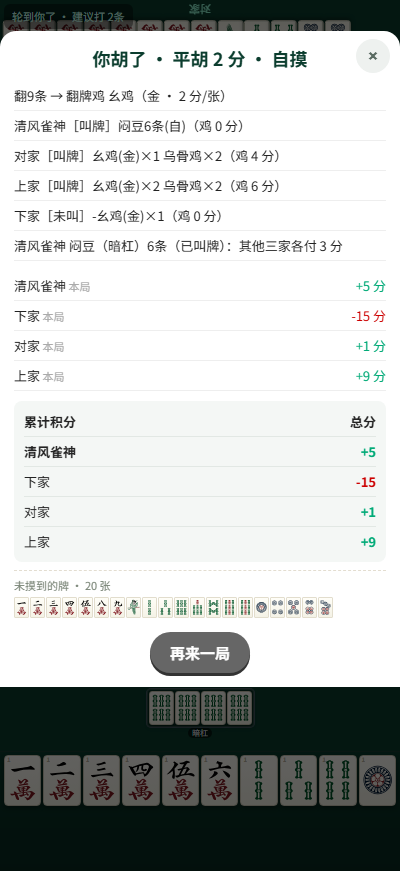
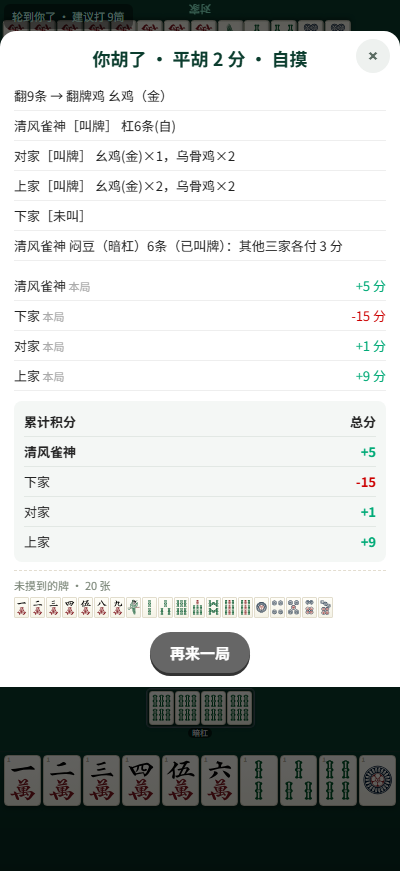
结算窗再简一轮：第2行不写分值、四家行只列「杠+鸡」（三种豆统一写「杠」）、未叫家只到［未叫］

Changed region(s): [[0.24, 0.093, 0.69, 0.279], [0.27, 0.0, 0.3, 0.031]]

diff --git a/index.html b/index.html
@@ -2601,43 +2601,40 @@ function chickenSurvey(p){
     .map(c=>({c:c,v:chickenValue(c,fc),keep:keep[c]||0,disc:disc[c]||0}));
   return {p:p,rows:rows};
 }
-/* 一行里某个牌种怎么称呼（用户 2026-09-16：`幺鸡(金)×2` 这个写法认同）：
+/* 一行里某个牌种怎么称呼（用户 2026-09-16 定稿）：
      · 幺鸡 / 乌骨鸡         → 「幺鸡」「乌骨鸡」
      · 其中本局是金鸡的那一个  → 「幺鸡(金)」
-     · 翻牌鸡（不是幺鸡/8筒）  → 「6万(翻牌鸡)」—— 翻牌鸡每局都换，不写牌名看不出是哪一张 */
+     · 翻牌鸡（不是幺鸡/8筒）  → **直接写牌名**（「5筒」）—— 第 2 行已经说了翻牌鸡是哪张，
+       这里再挂一个「(翻牌鸡)」只是重复；翻牌鸡每局都换，光看牌名+第 2 行就能对上。 */
 function chickenRowLabel(c,fc){
   if(c===YAOJI)  return fc===YAOJI?'幺鸡(金)':'幺鸡';
   if(c===WUGUJI) return fc===WUGUJI?'乌骨鸡(金)':'乌骨鸡';
-  return cname(c)+'(翻牌鸡)';
+  return cname(c);
 }
-// 一家的明细文字："幺鸡×2 乌骨鸡×1 ｜ 打 6万(翻牌鸡)×1"
-//   用户 2026-09-16：**去掉「留」这个字**（叫牌家留着的和打出的都算他的，标「留」反而让人以为"留在手里才算"）；
-//   只给**打出去的**保留一个「打」标记 —— 未叫家打出去的才进包鸡，这个区别要看得出来。
-//   neg=true（未叫家）：每一项前面加「-」—— 标记"这些都不算他的分"（用户 2026-09-16）。
-function chickenCells(s, neg){
+// 一家的鸡："幺鸡×2，5筒×1"（用户 2026-09-16：**只要类型与数量**）
+//   · 不再分「留 / 打」两段 —— 叫牌家留着的和打出的都算他的，本来就是一个总数。
+//   · 未叫家**不显示**（他的鸡一律不算分，写出来只是占地方），所以本函数不给 neg 参数。
+function chickenCells(s){
   const fc=G.chickenCard;
-  const pre=neg?'-':'';
-  const f=(k)=>s.rows.filter(r=>r[k]).map(r=>pre+chickenRowLabel(r.c,fc)+'×'+r[k]).join(' ');
+  const m=new Map();                       // 保序：rows 已按牌号排好 → 输出顺序稳定
+  s.rows.forEach(r=>{const n=(r.keep||0)+(r.disc||0); if(n)m.set(r.c,(m.get(r.c)||0)+n);});
   const parts=[];
-  if(f('keep'))parts.push(f('keep'));
-  if(f('disc'))parts.push('打 '+f('disc'));
-  return parts.join(' ｜ ')||'无鸡';
+  m.forEach((n,c)=>parts.push(chickenRowLabel(c,fc)+'×'+n));
+  return parts.join('，');
 }
-/* 一家的杠（豆腐）文字："闷豆6条(自) 点豆5万(上)"
-   用户 2026-09-16：杠要写清**谁放的** —— 自 / 对 / 上 / 下
-     · 闷豆（暗杠）、爬坡豆（补杠）都是自己成的 → (自)
-     · 点豆（明杠）= 别人放的第 4 张 → 写放那张牌的人
-   neg=true（未叫家）：加「-」前缀（未叫家的杠是倒赔）。
+/* 一家的杠文字："杠9万(自)"（用户 2026-09-16：闷豆/爬坡豆/点豆**统一写成「杠」**）
+   杠要写清**谁放的** —— 自 / 对 / 上 / 下（点豆写放那张牌的人，自杠写「自」）。
    ⚠ 分类顺序不能反：补杠的 meld 继承了原来那副碰的 from(>=0)，
-      先判 from 会把它误算成点豆（douSettle 里踩过同一个坑，见那里的注释）。 */
+      先判 from 会把它误算成点豆（douSettle 里踩过同一个坑，见那里的注释）。
+   ⚠ 三种豆分值完全一样（各 3 分），区别只在"谁付"，而"谁付"由括号里的座位说清了，
+      所以行里不必再分种类；豆的收付由下面的「豆：」行单独讲。 */
 const SEAT_ABBR=['自','下','对','上'];      // 座位号 → 简称（0＝自己 / 1＝下家 / 2＝对家 / 3＝上家）
-function douCells(p, neg){
+function douCells(p){
   const gs=(G.melds[p]||[]).filter(m=>m.type==='gang'&&!m.void);
   return gs.map(m=>{
     const isPoint=(!m.paPo&&m.from>=0);
-    const kind=m.paPo?'爬坡豆':(isPoint?'点豆':'闷豆');
-    return (neg?'-':'')+kind+cname(m.card)+'('+(isPoint?(SEAT_ABBR[m.from]||'他'):'自')+')';
-  }).join(' ');
+    return '杠'+cname(m.card)+'('+(isPoint?(SEAT_ABBR[m.from]||'他'):'自')+')';
+  }).join('，');
 }
 // 一家的全部鸡的**张数**与分值（含宽窄口径之外的自有部分，供显示 ）
 function chickenOwnPts(s){return s.rows.reduce((a,r)=>a+(r.keep+r.disc)*r.v,0);}
@@ -2662,11 +2659,13 @@ function chickenSettle(win, lines, total, burn, tail){
   // 本局有没有金鸡（非 null = 有）：金鸡就是"本局的鸡正好是 幺鸡 / 乌骨鸡 之一"那种情况。
   // 名字只当**判据**用，真正显示的字一律走 chickenName()（免得两处叫法各写一套、改一个漏一个）。
   const goldName=(fc===YAOJI||fc===WUGUJI)?chickenName(fc):null;
-  /* 第 2 行（用户 2026-09-16 定的六行结构）：翻到什么 → 翻牌鸡是哪张、几分/张。
-     ⚠ G.chickenCard 存的是**翻到的牌的下一张**（= 翻牌鸡），翻到的牌本身是 G.flipCard。 */
+  /* 第 2 行（用户 2026-09-16 定的六行结构）：翻到什么 → 翻牌鸡是哪张。
+     ⚠ G.chickenCard 存的是**翻到的牌的下一张**（= 翻牌鸡），翻到的牌本身是 G.flipCard。
+     ⚠ 用户 2026-09-16：**不再写「（1 分/张）」** —— 分值表在 README / 帮助里，结算窗只报"是哪张"；
+        只有**金**要留一个标记（那会改分值，不提就是漏信息）。 */
   const flipTxt=(G.flipCard===null||G.flipCard===undefined)
-    ?'牌墙已空，不翻牌 · 幺鸡 / 乌骨鸡 各 1 分/张'
-    :`翻${cname(G.flipCard)} → 翻牌鸡 ${chickenName(fc)}（${goldName?'金 · 2 分/张':'1 分/张'}）`;
+    ?'牌墙已空，不翻牌'
+    :`翻${cname(G.flipCard)} → 翻牌鸡 ${chickenName(fc)}${goldName?'（金）':''}`;
   // ⚠ 第 3~6 行要用到下面算出来的 ownC/thrownC，所以四家行**挪到收付算完之后**再 push。
 
   // ③ 常鸡（幺鸡 / 8筒）的收付 —— 用户 2026-09-16 定稿（**与旧口径不同**，规则见文件头 §四）：
@@ -2711,22 +2710,19 @@ function chickenSettle(win, lines, total, burn, tail){
   }
   /* ---- 第 2 行 + 第 3~6 行（用户 2026-09-16 定的结构）----
      顺序：**自己 → 对家 → 上家 → 下家**（用户指定，不是出牌顺序）。
-     每行 = 名字［叫牌/未叫］+ 他的杠（写清谁放的）+ 他的鸡（金 / 翻牌鸡 都挂在牌种上）+（他的鸡值几分）
-            + 未叫家打出的鸡 → 包鸡（写在**打出那张鸡的那一家自己**这一行里）。
+     每行 = 名字［叫牌/未叫］+ 他的杠 + 他的鸡（金 / 翻牌鸡 都挂在牌种上），项之间用「，」分隔。
+     · **未叫家一行只写到［未叫］** —— 他的杠、他的鸡全部不算他的分，列出来只是占地方（用户 2026-09-16）。
+     · **只有叫牌家**（收得到分的那种）才列；他打出去的鸡进了包鸡 → 在该行尾巴补一句
+       `→ 包鸡 各 N 分`（写在**打出那张鸡的那一家自己**这一行里）。
      "钱怎么走"不再单独占一行，方向由侧栏（rSide）的本局净额体现。 */
   lines.push(flipTxt);
   [0,2,3,1].forEach(p=>{
-    const s=sur[p];
-    const own=(called[p]&&!isBurned(p))?chickenOwnPts(s):0;   // 未叫家收不到 → 0 分
-    const neg=!called[p];                                     // 未叫家：每一项前面加「-」（都不算他的分）
     const seg=[];
-    const dou=douCells(p,neg);
-    if(dou)seg.push(dou);
-    const chk=chickenCells(s,neg);
-    if(chk!=='无鸡')seg.push(chk);
-    // 括号里写的是"**他的鸡值几分**"—— 杠的收付由下面的豆结算行说，
-    // 所以这里必须点明是"鸡"，否则像 `闷豆6条(自)（0分）` 会被读成"这个杠 0 分"。
-    let txt=`${NAMES[p]}［${called[p]?'叫牌':'未叫'}］${seg.length?seg.join(' '):'无'}（鸡 ${own} 分）`;
+    if(called[p]){                                   // 未叫家：后面一律不写
+      const dou=douCells(p);            if(dou)seg.push(dou);
+      const chk=chickenCells(sur[p]);   if(chk)seg.push(chk);
+    }
+    let txt=`${NAMES[p]}［${called[p]?'叫牌':'未叫'}］${seg.length?' '+seg.join('，'):''}`;
     if(thrownC[p])txt+=` → 包鸡 各 ${thrownC[p]} 分`;
     if(isBurned(p))txt+=' · 鸡全烧（热炮）';
     lines.push(txt);

diff --git a/README.md b/README.md
@@ -337,21 +337,22 @@
 结算窗**前六行**格式固定，顺序是：**谁胡了 → 翻牌 → 自己 → 对家 → 上家 → 下家**。
 
 ```
-你胡了 · 平胡 1 分 · 对家点炮                  第 1 行：谁胡了 · 牌型几分 · 谁点炮（自摸就写「自摸」）
-翻5万 → 翻牌鸡 6万（1 分/张）                  第 2 行：翻到什么 → 翻牌鸡是哪张、几分/张
-清风雀神［叫牌］闷豆6条(自)（鸡 0 分）         第 3~6 行：自己 → 对家 → 上家 → 下家
-对家［叫牌］幺鸡×1 乌骨鸡×1（鸡 2 分）
-上家［叫牌］幺鸡×2 乌骨鸡×2（鸡 4 分）
-下家［未叫］打 幺鸡×1（鸡 0 分） → 包鸡 各 1 分
-豆：闷豆6条(自) 三家各付 3 分                  再往下：豆 · 冲锋鸡 · 责任鸡 · 未摸到的牌 · 本局 / 累计
+你胡了 · 平胡 1 分 · 对家点炮        第 1 行：谁胡了 · 牌型几分 · 谁点炮（自摸就写「自摸」）
+翻4筒 → 翻牌鸡 5筒                   第 2 行：翻到什么 → 翻牌鸡是哪张（金鸡后面多一个「（金）」）
+夜航将友［未叫］                     第 3~6 行：自己 → 对家 → 上家 → 下家
+对家［未叫］
+上家［叫牌］乌骨鸡×1，5筒×1
+下家［叫牌］杠9万(自)，幺鸡×2，5筒×1
+豆：… 三家各付 3 分                  再往下：豆 · 冲锋鸡 · 责任鸡 · 未摸到的牌 · 本局 / 累计
 ```
 
-读的时候只要盯四处：
+读的时候只要盯三处：
 
-1. **［叫牌］/［未叫］** —— 只有叫牌家能收；未叫家只付不收。
-2. **牌种后面跟的数量** —— `幺鸡(金)×2` 是金幺鸡 2 张、`6万(翻牌鸡)×1` 是翻牌鸡 1 张；
-   **未叫家那一行每项前面带 `-`**，表示这些**不算他的分**。
-3. **「打」这个标记** —— 没标记的是他手里 + 副露的，带「打」的是他打出去的；
-   未叫家打出的 幺鸡 / 8筒 才进包鸡（那一行尾巴写 `→ 包鸡 各 N 分`）。
-4. **括号里的「鸡 N 分」** —— 那一家的**鸡**值多少分；杠（豆腐）的收付在下面「豆」那一行，
-   写法是 `闷豆6条(自)`、`点豆5万(上)`（括号里是**谁放的**：自 / 对 / 上 / 下）。
+1. **［叫牌］/［未叫］** —— 只有叫牌家能收；未叫家只付不收，所以**他那一行只写到「［未叫］」为止**
+   （他的杠、他的鸡一律不列，列了也都是 0 分）。
+2. **叫牌家那一行 = 他的杠 + 他的鸡**，项之间用「，」分隔：
+   - **杠**：`杠9万(自)` —— 括号里是**谁放的**（自 / 对 / 上 / 下）。
+   - **鸡**：`幺鸡×2`、`乌骨鸡×1`；金的那张写 `幺鸡(金)×2`；**翻牌鸡直接写牌名**
+     （`5筒×1` —— 第 2 行已经说了翻牌鸡是哪张）。张数是**手里 + 副露 + 自己牌河的总数**。
+3. **包鸡** —— 未叫家打出的 幺鸡 / 8筒 要赔给每个叫牌家，写在他**自己那一行**的尾巴上：
+   `→ 包鸡 各 N 分`。
